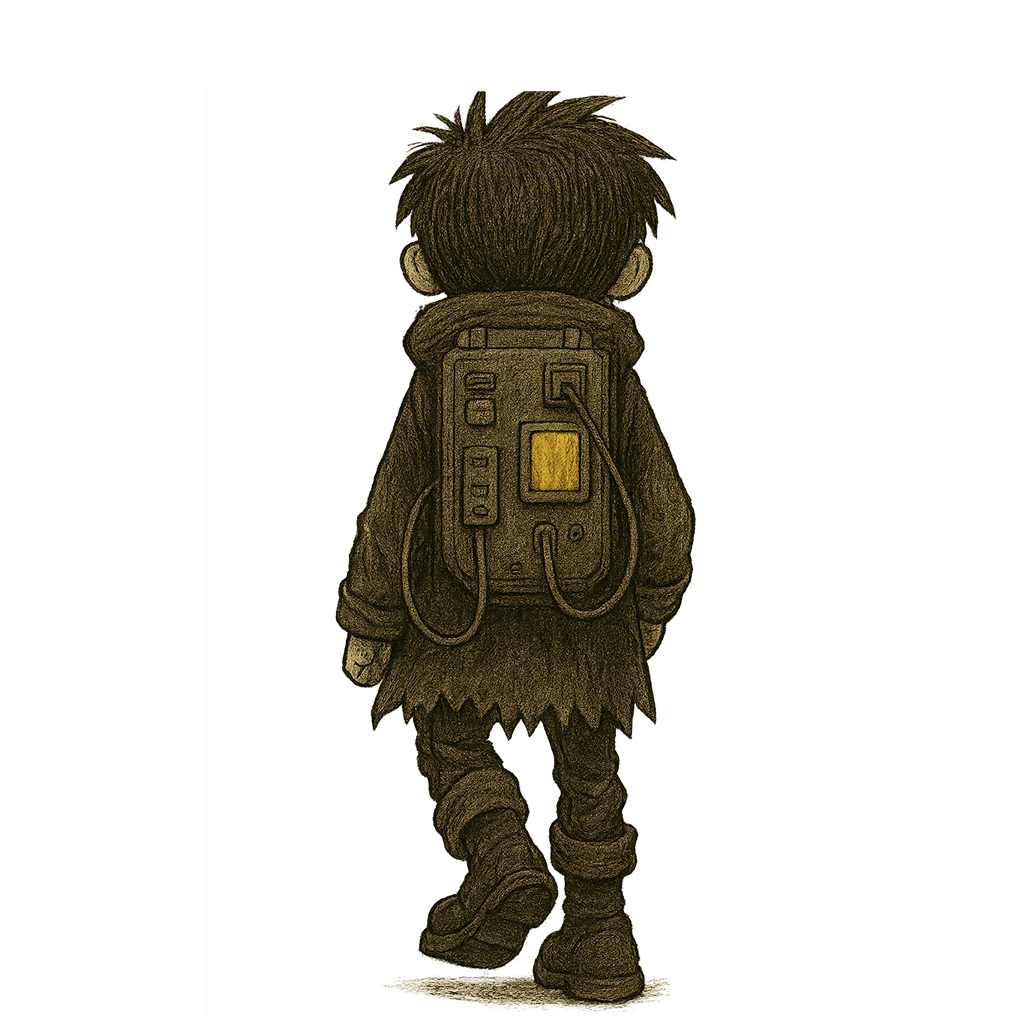
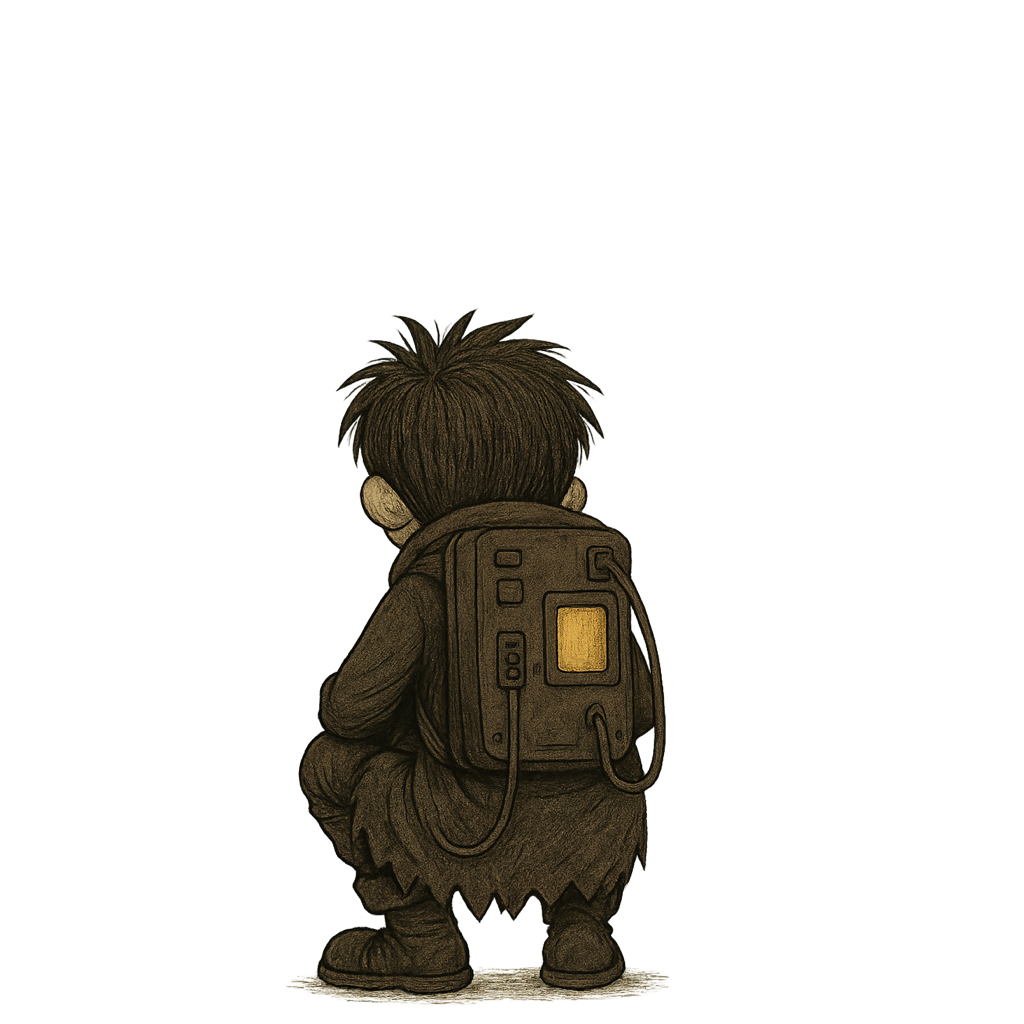
調整人物圖片 動作

Changed region(s): [[0.2812, 0.0625, 0.6875, 1.0]]

diff --git a/main.js b/main.js
@@ -1979,6 +1979,9 @@ function spawnMonsters() {
       type: 'trackerA',
       baseSpeed: settings.speed || 1.5, // 基礎速度
       speed: (settings.speed || 1.5), // 保持固定速度
+      // 起始座標（用於返回行為）
+      startX: position.x,
+      startY: position.y,
       // 動畫相關屬性
       direction: 'right', // 預設朝右
       animationFrame: 1, // 動畫幀（1或2）
@@ -2003,6 +2006,9 @@ function spawnMonsters() {
       type: 'trackerB',
       baseSpeed: settings.speed || 1.5, // 基礎速度
       speed: (settings.speed || 1.5), // 保持固定速度
+      // 起始座標（用於返回行為）
+      startX: position.x,
+      startY: position.y,
       // 動畫相關屬性
       direction: 'right', // 預設朝右
       animationFrame: 1, // 動畫幀（1或2）
@@ -2156,31 +2162,40 @@ function getMonsterMaxHp(type) {
 function updatePlayer() {
   player.moving = false;
   
-  // 如果正在執行動作，禁止移動
-  if (player.isActioning) {
-    return;
-  }
-  
+  // 檢查方向鍵輸入（無論是否在蹲下狀態）
   if (keys.ArrowUp) {
-    player.y -= player.speed;
-    player.moving = true;
+    if (!player.isActioning) {
+      // 只有在非蹲下狀態才移動位置
+      player.y -= player.speed;
+      player.moving = true;
+    }
     player.direction = 'up';
   }
   if (keys.ArrowDown) {
-    player.y += player.speed;
-    player.moving = true;
+    if (!player.isActioning) {
+      // 只有在非蹲下狀態才移動位置
+      player.y += player.speed;
+      player.moving = true;
+    }
     player.direction = 'down';
   }
   if (keys.ArrowLeft) {
-    player.x -= player.speed;
-    player.moving = true;
+    if (!player.isActioning) {
+      // 只有在非蹲下狀態才移動位置
+      player.x -= player.speed;
+      player.moving = true;
+    }
     player.direction = 'left';
   }
   if (keys.ArrowRight) {
-    player.x += player.speed;
-    player.moving = true;
+    if (!player.isActioning) {
+      // 只有在非蹲下狀態才移動位置
+      player.x += player.speed;
+      player.moving = true;
+    }
     player.direction = 'right';
   }
+  
   // 邊界限制
   player.x = Math.max(0, Math.min(MAP_WIDTH - player.width, player.x));
   player.y = Math.max(0, Math.min(MAP_HEIGHT - player.height, player.y));
@@ -2313,81 +2328,93 @@ function distance(ax, ay, bx, by) {
 }
 
 function autoAttack() {
-  if (!player.moving && !player.isActioning) {
-    const currentTime = Date.now();
-    if (currentTime - lastAttackTime < ATTACK_COOLDOWN) {
-      return; // 還在冷卻中
-    }
+  const currentTime = Date.now();
+  
+  // 移動中：重置CD為25%
+  if (player.moving) {
+    lastAttackTime = currentTime - ATTACK_COOLDOWN * 0.75;
+    return;
+  }
+  
+  // 蹲下：重置CD為25%
+  if (player.isActioning) {
+    lastAttackTime = currentTime - ATTACK_COOLDOWN * 0.75;
+    return;
+  }
+  
+  // 靜止狀態：檢查CD並攻擊
+  if (currentTime - lastAttackTime < ATTACK_COOLDOWN) {
+    return; // 還在冷卻中
+  }
+  
+  // 檢查玩家是否在安全區域內，如果在安全區域內則不能攻擊
+  const isPlayerInSafeZone = isInSafeZone(player.x, player.y, player.width, player.height);
+  if (isPlayerInSafeZone) {
+    return; // 在安全區域內不能攻擊
+  }
+  
+  // 檢查所有怪物
+  for (let i = monsters.length - 1; i >= 0; i--) {
+    const m = monsters[i];
+    // 以玩家中心與怪物中心計算距離
+    const px = player.x + player.width / 2;
+    const py = player.y + player.height / 2;
+    const mx = m.x + m.width / 2;
+    const my = m.y + m.height / 2;
     
-    // 檢查玩家是否在安全區域內，如果在安全區域內則不能攻擊
-    const isPlayerInSafeZone = isInSafeZone(player.x, player.y, player.width, player.height);
-    if (isPlayerInSafeZone) {
-      return; // 在安全區域內不能攻擊
-    }
+    // 計算射擊距離，加上角色和怪物的寬度
+    const baseRange = 300; // 基礎射擊距離
+    const playerWidth = player.width;
+    const monsterWidth = m.width;
+    const totalRange = baseRange + playerWidth / 2 + monsterWidth / 2;
     
-    // 檢查所有怪物
-    for (let i = monsters.length - 1; i >= 0; i--) {
-      const m = monsters[i];
-      // 以玩家中心與怪物中心計算距離
-      const px = player.x + player.width / 2;
-      const py = player.y + player.height / 2;
-      const mx = m.x + m.width / 2;
-      const my = m.y + m.height / 2;
+    if (distance(px, py, mx, my) < totalRange) {
+      // 發射彈幕
+      const dx = mx - px;
+      const dy = my - py;
+      const dist = Math.sqrt(dx * dx + dy * dy);
       
-      // 計算射擊距離，加上角色和怪物的寬度
-      const baseRange = 300; // 基礎射擊距離
-      const playerWidth = player.width;
-      const monsterWidth = m.width;
-      const totalRange = baseRange + playerWidth / 2 + monsterWidth / 2;
-      
-      if (distance(px, py, mx, my) < totalRange) {
-        // 發射彈幕
-        const dx = mx - px;
-        const dy = my - py;
-        const dist = Math.sqrt(dx * dx + dy * dy);
-        
-        // 根據攻擊方向更新角色朝向
-        if (Math.abs(dx) > Math.abs(dy)) {
-          // 水平方向為主
-          if (dx > 0) {
-            player.direction = 'right';
-          } else {
-            player.direction = 'left';
-          }
+      // 根據攻擊方向更新角色朝向
+      if (Math.abs(dx) > Math.abs(dy)) {
+        // 水平方向為主
+        if (dx > 0) {
+          player.direction = 'right';
         } else {
-          // 垂直方向為主
-          if (dy > 0) {
-            player.direction = 'down';
-          } else {
-            player.direction = 'up';
-          }
+          player.direction = 'left';
         }
-        
-        projectiles.push({
-          x: px,
-          y: py,
-          vx: (dx / dist) * PROJECTILE_SPEED,
-          vy: (dy / dist) * PROJECTILE_SPEED,
-          targetMonster: i,
-        });
-        
-        // 設定攻擊動畫
-        player.isAttacking = true;
-        player.attackStartTime = currentTime;
-        player.attackAnimationTime = currentTime;
-        player.attackAnimationFrame = 1;
-        
-        lastAttackTime = currentTime;
-        
-        // 播放攻擊音效
-        audioSystem.playAttack();
-        
-        // 創建攻擊粒子效果
-        particleSystem.createTrail(px, py, '#FFFF00');
-        
-        // 一次只攻擊一隻
-        break;
+      } else {
+        // 垂直方向為主
+        if (dy > 0) {
+          player.direction = 'down';
+        } else {
+          player.direction = 'up';
+        }
       }
+      
+      projectiles.push({
+        x: px,
+        y: py,
+        vx: (dx / dist) * PROJECTILE_SPEED,
+        vy: (dy / dist) * PROJECTILE_SPEED,
+        targetMonster: i,
+      });
+      
+      // 設定攻擊動畫
+      player.isAttacking = true;
+      player.attackStartTime = currentTime;
+      player.attackAnimationTime = currentTime;
+      player.attackAnimationFrame = 1;
+      
+      lastAttackTime = currentTime;
+      
+      // 播放攻擊音效
+      audioSystem.playAttack();
+      
+      // 創建攻擊粒子效果
+      particleSystem.createTrail(px, py, '#FFFF00');
+      
+      // 一次只攻擊一隻
+      break;
     }
   }
 }
@@ -2410,8 +2437,8 @@ function updateMonsters() {
       const dy = py - my;
       const dist = Math.sqrt(dx * dx + dy * dy);
       
-      // 只有當玩家不在安全區域內時才追蹤
-      if (!isPlayerInSafeZone) {
+      // 只有當玩家不在安全區域內且沒有執行動作時才追蹤
+      if (!isPlayerInSafeZone && !player.isActioning) {
         if (dist <= 500) {
           // 500像素內：追蹤玩家
           if (dist > 0) {
@@ -2419,17 +2446,43 @@ function updateMonsters() {
             m.dy = (dy / dist) * m.speed;
           }
         } else {
-          // 500像素外：隨機移動
-          if (Math.random() < 0.02) { // 2% 機率改變方向
-            m.dx = (Math.random() - 0.5) * 2 * m.speed;
-            m.dy = (Math.random() - 0.5) * 2 * m.speed;
+          // 500像素外：回到起始座標附近
+          const startDx = m.startX - m.x;
+          const startDy = m.startY - m.y;
+          const startDist = Math.sqrt(startDx * startDx + startDy * startDy);
+          
+          if (startDist > 100) { // 如果距離起始點超過100像素
+            // 朝起始點移動
+            if (startDist > 0) {
+              m.dx = (startDx / startDist) * m.speed * 0.5; // 返回速度較慢
+              m.dy = (startDy / startDist) * m.speed * 0.5;
+            }
+          } else {
+            // 在起始點附近隨機移動
+            if (Math.random() < 0.02) { // 2% 機率改變方向
+              m.dx = (Math.random() - 0.5) * 2 * m.speed * 0.3; // 在起始點附近移動較慢
+              m.dy = (Math.random() - 0.5) * 2 * m.speed * 0.3;
+            }
           }
         }
       } else {
-        // 玩家在安全區域內：停止追蹤，改為隨機移動
-        if (Math.random() < 0.02) { // 2% 機率改變方向
-          m.dx = (Math.random() - 0.5) * 2 * m.speed;
-          m.dy = (Math.random() - 0.5) * 2 * m.speed;
+        // 玩家在安全區域內或正在執行動作：回到起始座標附近
+        const startDx = m.startX - m.x;
+        const startDy = m.startY - m.y;
+        const startDist = Math.sqrt(startDx * startDx + startDy * startDy);
+        
+        if (startDist > 100) { // 如果距離起始點超過100像素
+          // 朝起始點移動
+          if (startDist > 0) {
+            m.dx = (startDx / startDist) * m.speed * 0.5; // 返回速度較慢
+            m.dy = (startDy / startDist) * m.speed * 0.5;
+          }
+        } else {
+          // 在起始點附近隨機移動
+          if (Math.random() < 0.02) { // 2% 機率改變方向
+            m.dx = (Math.random() - 0.5) * 2 * m.speed * 0.3; // 在起始點附近移動較慢
+            m.dy = (Math.random() - 0.5) * 2 * m.speed * 0.3;
+          }
         }
       }
     } else if (m.type === 'turret') {
